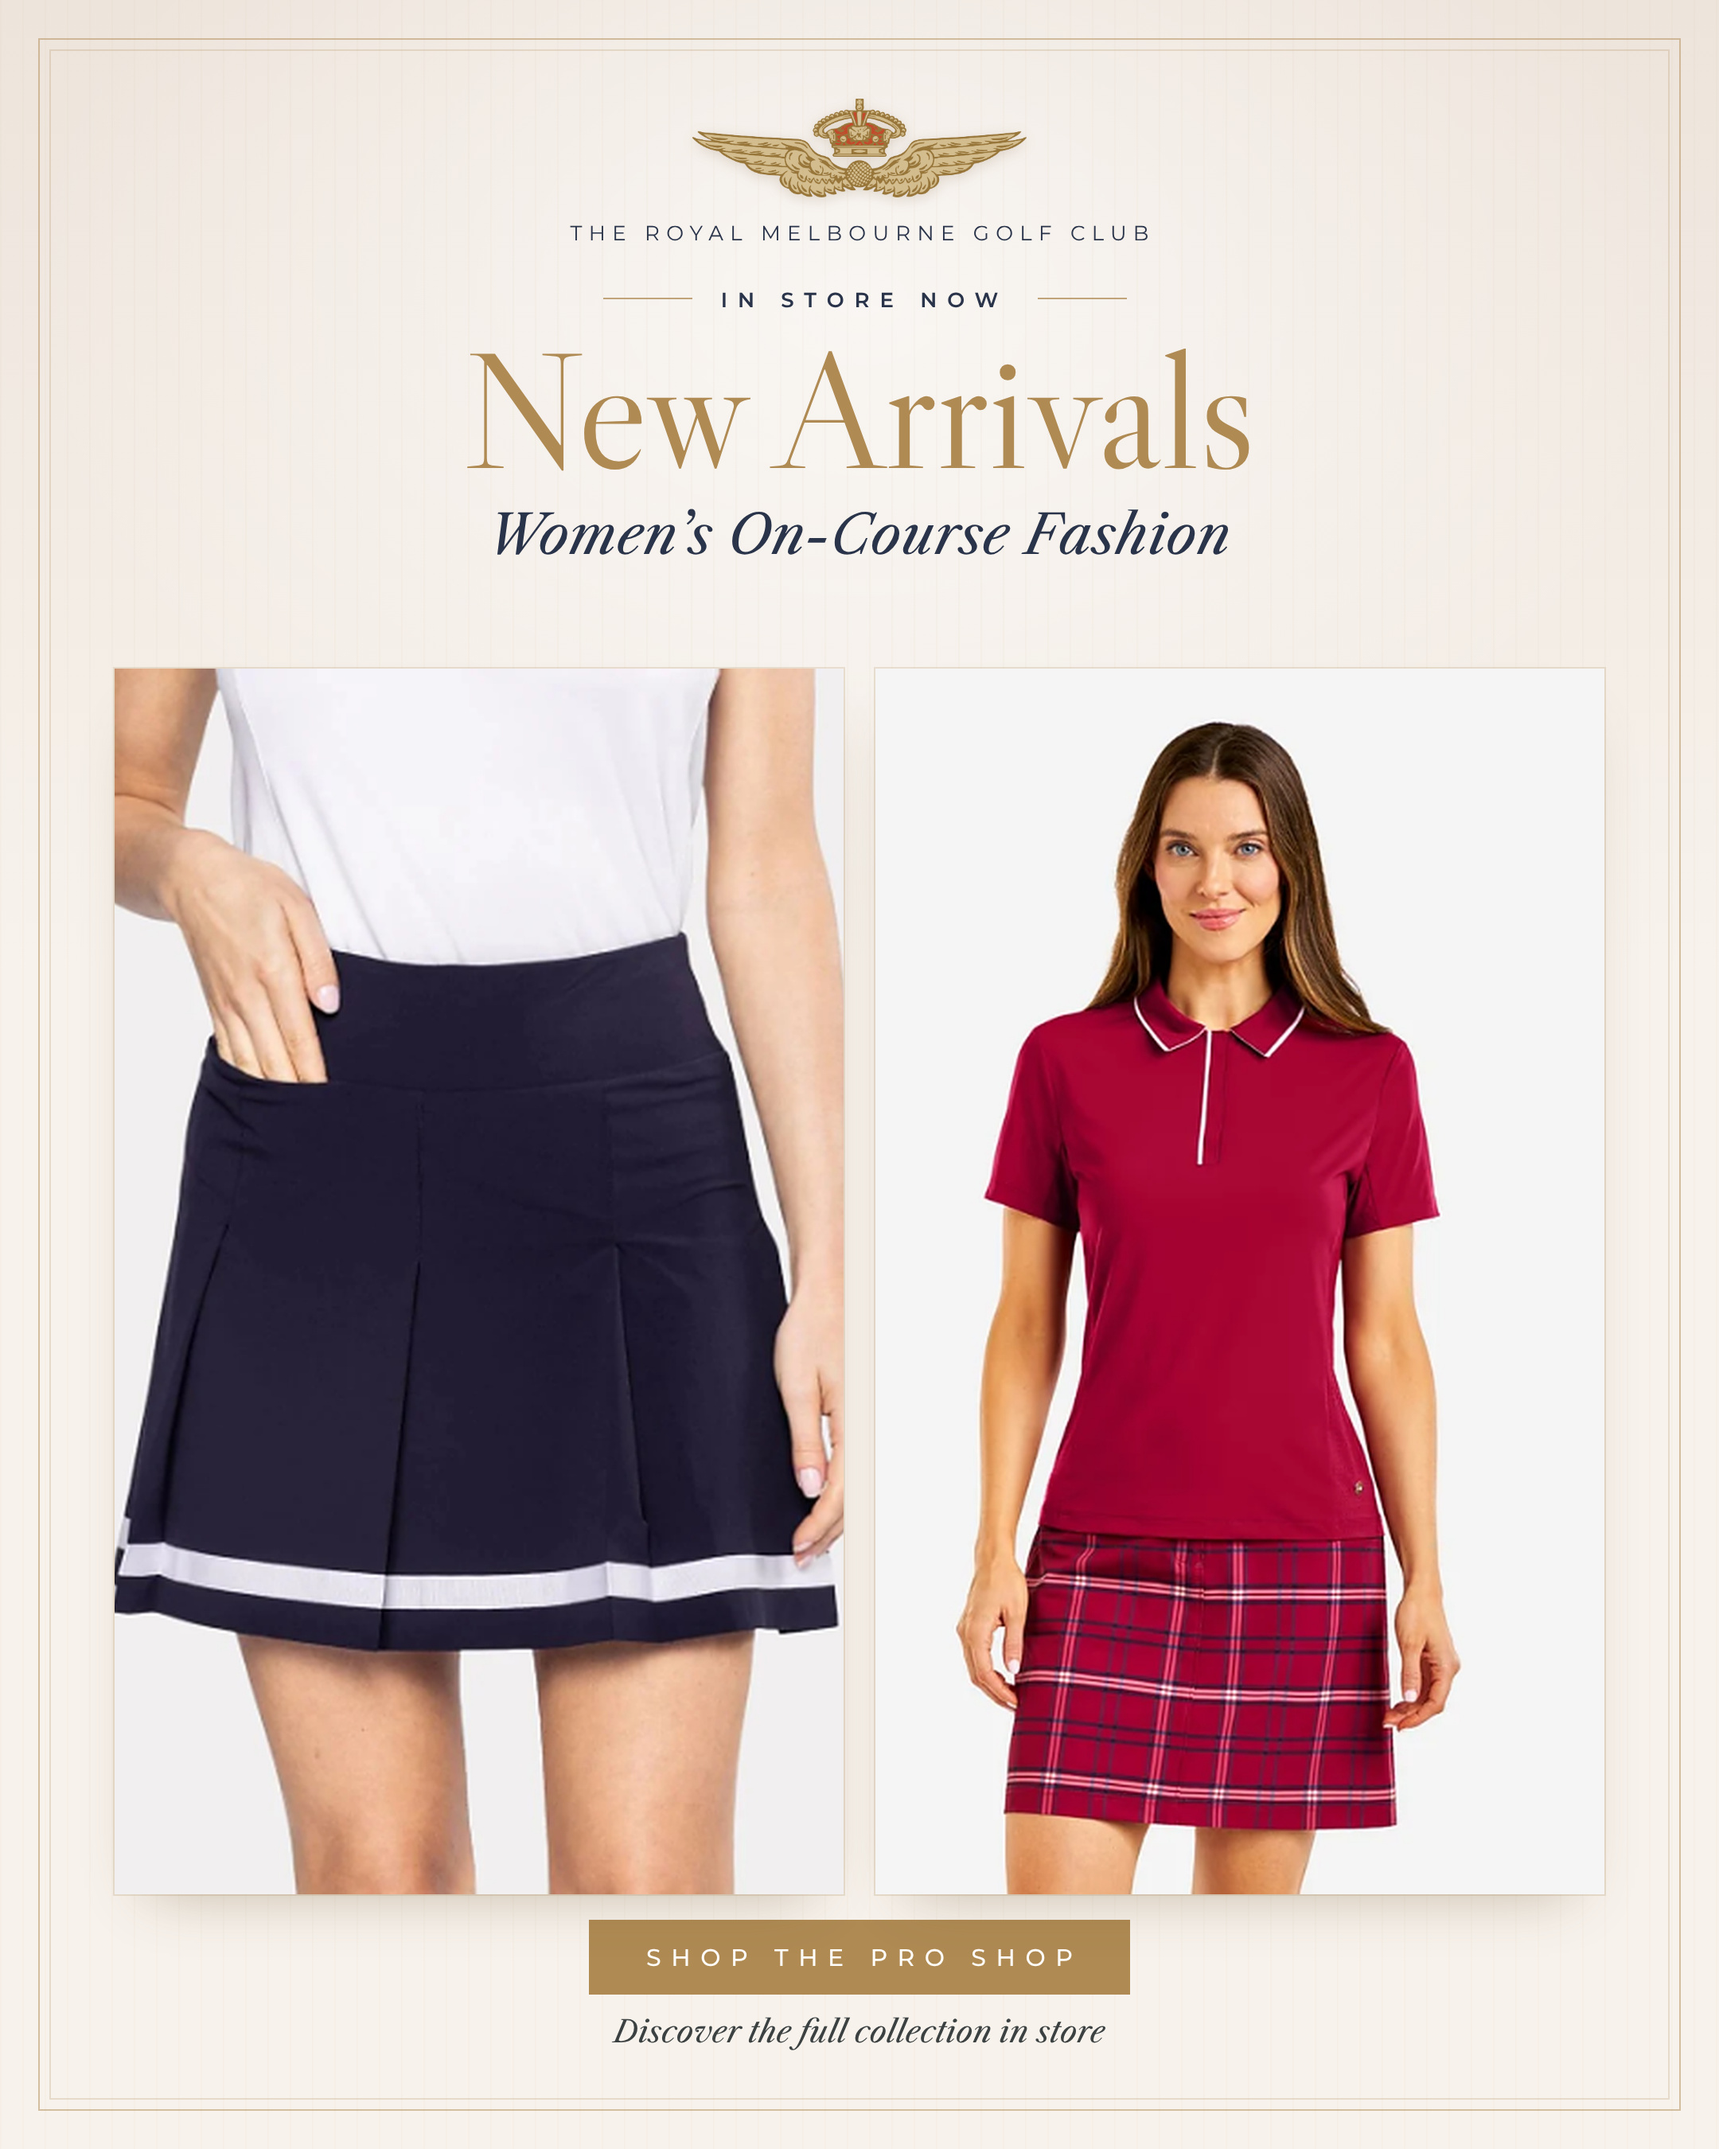
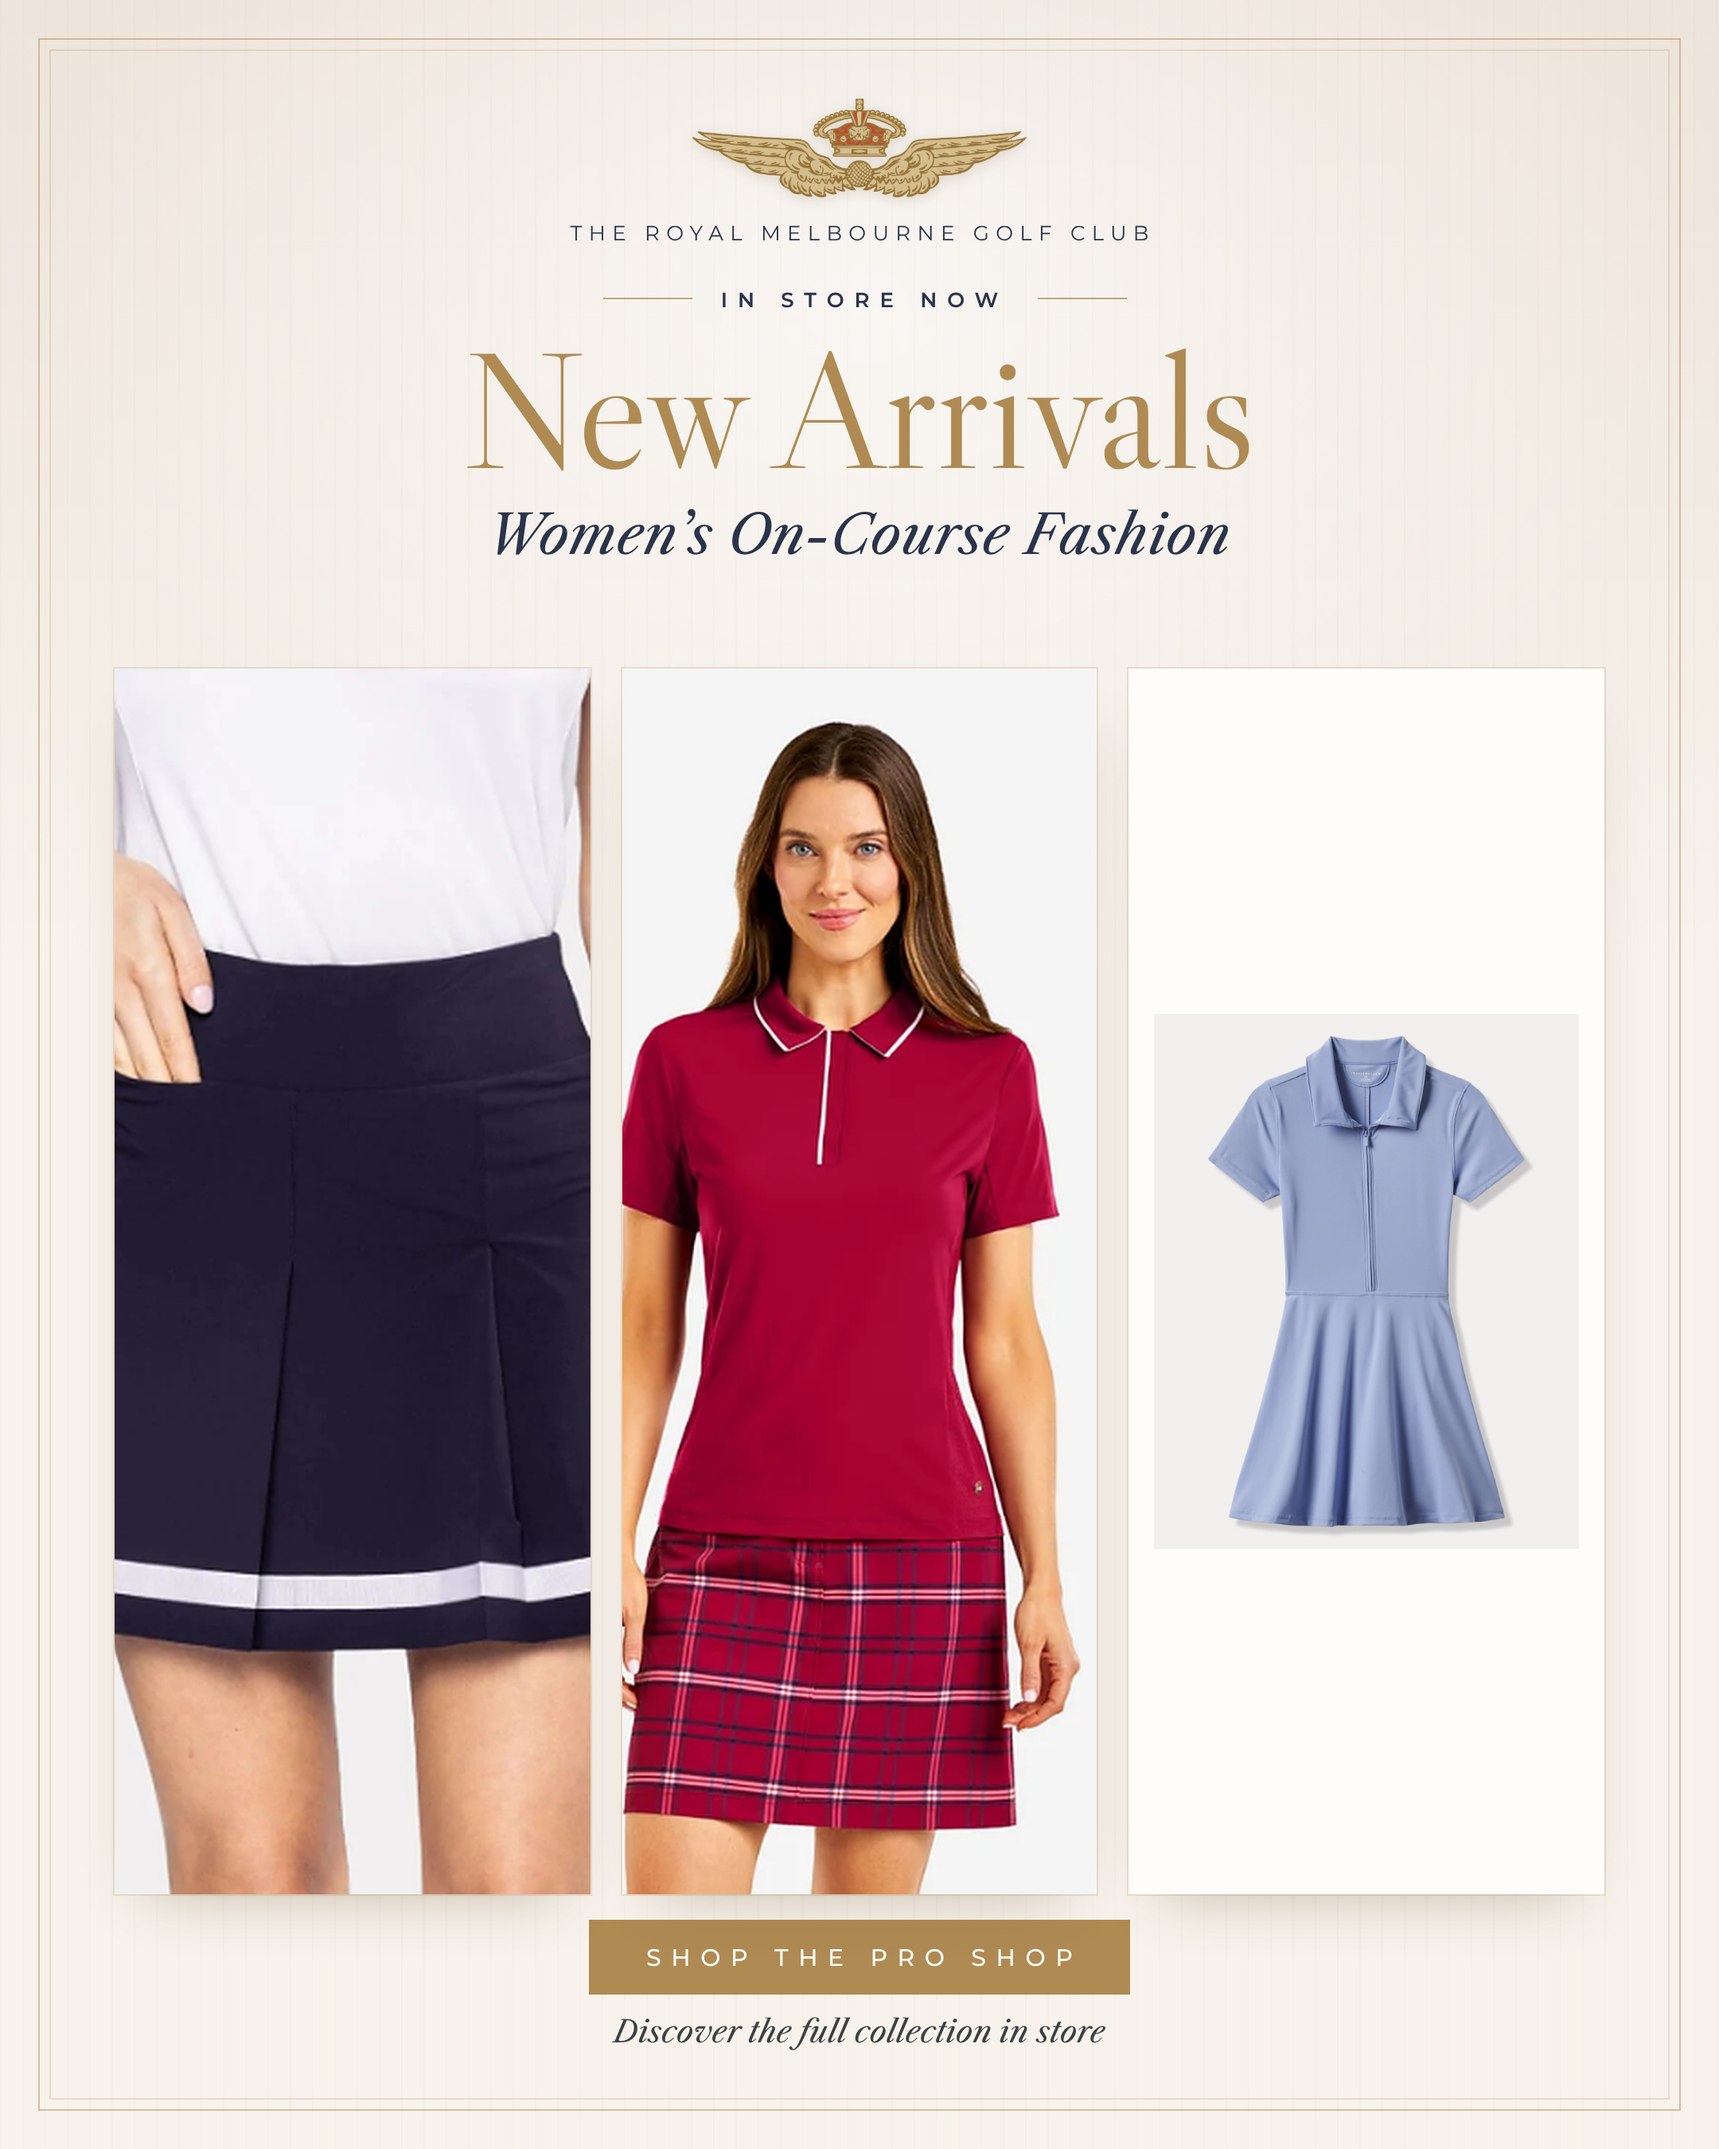
Instagram Story: New Arrivals cover page then one outfit per page; add blue dress
Claude-Session: https://claude.ai/code/session_019wMMuVn2NWi4PmzKyXQ4Fb

Changed region(s): [[0.062, 0.3111, 0.8995, 0.9022]]

diff --git a/instagram/story.html b/instagram/story.html
@@ -1,0 +1,90 @@
+<!doctype html>
+<html lang="en">
+<head>
+<meta charset="utf-8">
+<title>Women's On-Course Story</title>
+<link href="https://fonts.googleapis.com/css2?family=Libre+Caslon+Display&family=Libre+Caslon+Text:ital,wght@0,400;1,400&family=Montserrat:wght@300;400;500;600&display=swap" rel="stylesheet">
+<style>
+  /* Royal Melbourne Golf Club palette — matches post.html / new-arrivals.html */
+  :root { --oxford:#293349; --onyx:#3B4041; --paper:#FFFDFA; --blush:#EDE4DB; --cream:#F7F2EC; --antique:#AF8A53; }
+  * { box-sizing: border-box; margin: 0; padding: 0; }
+  body { background: var(--cream); }
+
+  /* Instagram Story 9:16 — exported at 2x = 2160 x 3840.
+     Content kept clear of the top ~250px / bottom ~300px covered by the Story UI. */
+  .story {
+    position: relative; width: 1080px; height: 1920px; overflow: hidden;
+    background:
+      radial-gradient(ellipse 75% 35% at 50% 22%, rgba(255,255,255,.6), transparent 70%),
+      linear-gradient(180deg, var(--blush) 0%, var(--cream) 50%, var(--cream) 100%);
+    font-family: 'Montserrat', sans-serif; color: var(--oxford); text-align: center;
+  }
+  .story::after { content:""; position:absolute; inset:0; pointer-events:none;
+    background: repeating-linear-gradient(90deg, rgba(175,138,83,.03) 0 1px, transparent 1px 14px); }
+  .frame { position:absolute; inset:24px; border:1px solid rgba(175,138,83,.5); z-index:5; pointer-events:none; }
+  .frame::after { content:""; position:absolute; inset:6px; border:1px solid rgba(175,138,83,.22); }
+  .eyebrow { display:inline-flex; align-items:center; gap:20px;
+    font-size:15px; font-weight:600; letter-spacing:.5em; padding-left:.5em; }
+  .eyebrow::before, .eyebrow::after { content:""; width:64px; height:1px; background:var(--antique); opacity:.75; }
+  .club { font-size:15px; letter-spacing:.32em; padding-left:.32em; }
+
+  /* ---------- Page 1: cover ---------- */
+  .cover { position:absolute; left:0; right:0; top:50%; transform:translateY(-50%); }
+  .cover .crest { width:330px; filter: drop-shadow(0 3px 6px rgba(120,90,50,.18)); }
+  .cover .club { margin-top:22px; }
+  .cover .eyebrow { margin-top:90px; }
+  .cover h1 { margin-top:30px; font-family:'Libre Caslon Display', serif; font-weight:400;
+    font-size:200px; line-height:.88; color:var(--antique); }
+  .cover .sub { margin-top:34px; font-family:'Libre Caslon Text', serif; font-style:italic; font-size:50px; }
+  .cover .rule { width:120px; height:1px; background:var(--antique); margin:70px auto 0; }
+  .cover .next { margin-top:44px; font-size:15px; font-weight:500; letter-spacing:.42em; padding-left:.42em; color:var(--antique); }
+  .cover .next span { display:block; margin-top:14px; font-size:30px; letter-spacing:0; padding:0; }
+
+  /* ---------- Pages 2+: one outfit per page ---------- */
+  .look header { position:absolute; top:240px; left:0; right:0; }
+  .look .crest { width:180px; display:block; margin:0 auto; }
+  .look .eyebrow { margin-top:22px; }
+  .look .num { margin-top:6px; font-family:'Libre Caslon Display', serif; font-size:64px; color:var(--antique); line-height:1.1; }
+  .tile { position:absolute; left:150px; right:150px; top:500px; height:1000px; background:var(--paper); overflow:hidden;
+    box-shadow: 0 24px 48px -26px rgba(120,90,50,.5), 0 0 0 1px rgba(175,138,83,.25); }
+  .tile img { width:100%; height:100%; object-fit:contain; display:block; }  /* whole outfit, never cropped */
+  .look footer { position:absolute; left:0; right:0; bottom:300px; }
+  .cta { display:inline-block; background:var(--antique); color:var(--paper);
+    font-size:16px; font-weight:500; letter-spacing:.42em; padding:15px 32px 15px calc(32px + .42em); }
+  .tag { margin-top:12px; font-family:'Libre Caslon Text', serif; font-style:italic; font-size:22px; color:var(--onyx); }
+</style>
+</head>
+<body>
+<div class="story" id="story"><div class="frame"></div></div>
+<script>
+  // build_story.js injects window.PAGE = {type:'cover'} or {type:'look', src, n, bg}
+  const p = window.PAGE || { type: 'cover' };
+  const s = document.getElementById('story');
+  if (p.type === 'cover') {
+    s.insertAdjacentHTML('beforeend', `
+      <div class="cover">
+        <img class="crest" src="../rmgc-crest.png" alt="">
+        <div class="club">THE ROYAL MELBOURNE GOLF CLUB</div>
+        <div class="eyebrow">IN STORE NOW</div>
+        <h1>New<br>Arrivals</h1>
+        <div class="sub">Women’s On-Course Fashion</div>
+        <div class="rule"></div>
+        <div class="next">TAP FOR THE NEW LOOKS<span>→</span></div>
+      </div>`);
+  } else {
+    s.classList.add('look');
+    s.insertAdjacentHTML('beforeend', `
+      <header>
+        <img class="crest" src="../rmgc-crest.png" alt="">
+        <div class="eyebrow">NEW ARRIVALS</div>
+        <div class="num"><i>Look</i> ${String(p.n).padStart(2, '0')}</div>
+      </header>
+      <div class="tile" style="background:${p.bg || '#fff'}"><img src="${p.src}" alt=""></div>
+      <footer>
+        <div class="cta">IN STORE NOW</div>
+        <div class="tag">Women’s on-course fashion at the Pro Shop</div>
+      </footer>`);
+  }
+</script>
+</body>
+</html>

diff --git a/instagram/build_story.js b/instagram/build_story.js
@@ -1,0 +1,24 @@
+// Render the multi-page Instagram Story: page 1 = New Arrivals cover, then one outfit per page
+// (every image in instagram/images, sorted by name). Writes story/_NN.png for flatten_story.py.
+const { chromium } = require('playwright');
+const fs = require('fs'), path = require('path');
+const dir = __dirname, out = path.join(dir, 'story');
+fs.rmSync(out, { recursive: true, force: true }); fs.mkdirSync(out);
+const images = fs.readdirSync(path.join(dir, 'images')).filter(f => /\.(png|jpe?g|webp)$/i.test(f)).sort();
+const bgFile = path.join(dir, 'images', 'bg.json');
+const bg = fs.existsSync(bgFile) ? JSON.parse(fs.readFileSync(bgFile)) : {};
+const pages = [{ type: 'cover' }, ...images.map((f, i) => ({ type: 'look', src: 'images/' + f, n: i + 1, bg: bg[f] }))];
+(async () => {
+  const browser = await chromium.launch();
+  for (const [i, pg] of pages.entries()) {
+    const page = await browser.newPage({ viewport: { width: 1080, height: 1920 }, deviceScaleFactor: 2 });
+    await page.addInitScript(p => { window.PAGE = p; }, pg);
+    await page.goto('file://' + path.join(dir, 'story.html'));
+    await page.evaluate(() => document.fonts.ready);
+    await page.waitForLoadState('networkidle');
+    await page.locator('#story').screenshot({ path: path.join(out, `_${String(i + 1).padStart(2, '0')}.png`) });
+    await page.close();
+  }
+  await browser.close();
+  console.log(`rendered ${pages.length} page(s)`);
+})();

diff --git a/instagram/add_image.py b/instagram/add_image.py
@@ -1,0 +1,26 @@
+"""Add a photo to the Instagram set: flatten onto white, trim white margins, enlarge small
+images (Lanczos + light sharpen) and record the photo's background colour so its tile matches.
+
+Usage: python3 instagram/add_image.py <image> <name>    e.g. ... dress.webp 03-blue-dress
+"""
+import json
+import sys
+from pathlib import Path
+from PIL import Image, ImageChops, ImageFilter
+
+d = Path(__file__).resolve().parent / "images"
+src, name = Path(sys.argv[1]), sys.argv[2]
+im = Image.open(src).convert("RGBA")
+white = Image.new("RGBA", im.size, (255, 255, 255, 255))
+white.alpha_composite(im)
+im = white.convert("RGB")
+mask = ImageChops.difference(im, Image.new("RGB", im.size, "white")).convert("L").point(lambda v: 255 if v > 3 else 0)
+im = im.crop(mask.getbbox())
+if im.width < 1100:  # tile is ~1560px wide at export size
+    k = -(-1100 // im.width)
+    im = im.resize((im.width * k, im.height * k), Image.LANCZOS).filter(ImageFilter.UnsharpMask(2, 60, 2))
+im.save(d / f"{name}.jpg", quality=95)
+bg = json.loads((d / "bg.json").read_text()) if (d / "bg.json").exists() else {}
+bg[f"{name}.jpg"] = "#%02x%02x%02x" % im.getpixel((4, 4))
+(d / "bg.json").write_text(json.dumps(bg, indent=1) + "\n")
+print(name, im.size, bg[f"{name}.jpg"])

diff --git a/instagram/flatten_story.py b/instagram/flatten_story.py
@@ -1,0 +1,12 @@
+"""Flatten each Story page to opaque sRGB JPG + PNG (no alpha, no layers) for Canva."""
+from pathlib import Path
+from PIL import Image
+d = Path(__file__).resolve().parent / "story"
+for raw in sorted(d.glob("_*.png")):
+    n = int(raw.stem[1:])
+    name = f"Story-{n:02d}-" + ("Cover" if n == 1 else f"Look-{n - 1:02d}")
+    im = Image.open(raw).convert("RGB")
+    im.save(d / f"{name}.png", optimize=True, dpi=(300, 300))
+    im.save(d / f"{name}.jpg", quality=95, subsampling=0, dpi=(300, 300))
+    raw.unlink()
+    print(name, im.size)
